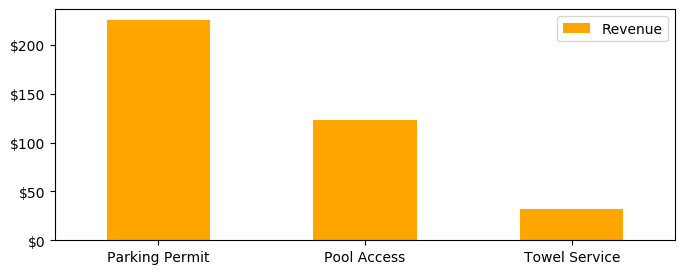
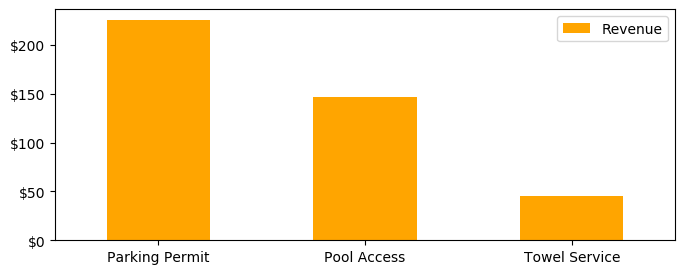
fix charts in analytics tab

Changed region(s): [[0.7358, 0.7007, 0.9197, 0.7883], [0.4599, 0.3504, 0.6131, 0.438]]

diff --git a/templates/analytics.html b/templates/analytics.html
@@ -8,6 +8,8 @@
       refresh data to update graphs.
     </p>
 
+    <script src="https://cdn.anychart.com/releases/8.0.0/js/anychart-base.min.js"></script>
+
 
     <!-- TAB MANAGEMENT -->
     <br>
@@ -34,9 +36,28 @@
       <br>
 
       <h4>Bookings By Month:</h4>
-      <img src="{{ url_for('static', filename='bookings_by_month.png') }}"
-           class="w3-image" alt="[number of bookings by month]">
-      <br>
+      <div id="container1" style="width: 100%; height: 400px"></div>
+      <script>
+        anychart.onDocumentReady(function() {
+
+          // set the data
+          var data = {
+              header: ["Month", "Bookings"],
+              rows:
+              {{ book_by_mo|safe }}
+          };
+
+          // create the chart
+          var chart = anychart.column();
+
+          // add the data
+          chart.data(data);
+
+          // draw
+          chart.container("container1");
+          chart.draw();
+        });
+      </script>
 
       <br>
     </div>
@@ -56,15 +77,53 @@
       <br>
 
       <h4>Revenue By Month:</h4>
-      <img src="{{ url_for('static', filename='revenue_by_month.png') }}"
-           class="w3-image" alt="[number of bookings by month]">
-      <br>
+      <div id="container2" style="width: 100%; height: 400px"></div>
+      <script>
+        anychart.onDocumentReady(function() {
+
+          // set the data
+          var data = {
+              header: ["Month", "Revenue"],
+              rows:
+              {{ rev_by_mo|safe }}
+          };
+
+          // create the chart
+          var chart = anychart.column();
+
+          // add the data
+          chart.data(data);
+
+          // draw
+          chart.container("container2");
+          chart.draw();
+        });
+      </script>
 
       <br>
       <h4>Revenue From Fees:</h4>
-      <img src="{{ url_for('static', filename='revenue_by_fee.png') }}"
-           class="w3-image" alt="[number of bookings by month]">
-      <br>
+      <div id="container3" style="width: 100%; height: 400px"></div>
+      <script>
+        anychart.onDocumentReady(function() {
+
+          // set the data
+          var data = {
+              header: ["Fee", "Revenue"],
+              rows:
+              {{ rev_by_fee|safe }}
+          };
+
+          // create the chart
+          var chart = anychart.column();
+
+          // add the data
+          chart.data(data);
+
+          // draw
+          chart.container("container3");
+          chart.draw();
+        });
+      </script>
 
 
       <br>

diff --git a/database.py b/database.py
@@ -157,6 +157,7 @@ def rollback_transaction():
 # =====================
 
 def get_customers_table():
+    connect_sqlalchemy()
     return Customer.query.all()
 
 
@@ -515,7 +516,7 @@ def update_invoice_amount(cnx, booking_id):
 def mark_as_paid(booking_id):
     invoice = Invoice.query.filter_by(booking_id=booking_id).first()
     invoice.paid = 1
-    invoice.paid_date = date=datetime.today().strftime('%Y-%m-%d')
+    invoice.paid_date = date.datetime.today().strftime('%Y-%m-%d')
     session.commit()
 
 
@@ -646,10 +647,7 @@ def update_bookings_by_month():
     cnx.close()
 
     df = pd.DataFrame(table, columns=["M", "Month", "Bookings"])
-    p = df.plot.bar(x="Month", y="Bookings", rot=0,
-                    figsize=(8,3), xlabel="")
-    plt.savefig('static/bookings_by_month.png', bbox_inches='tight')
-    plt.close('all')
+    return str(df[['Month', 'Bookings']].values.tolist())
 
 
 
@@ -668,16 +666,10 @@ def update_revenue_by_month():
     cursor.close()
     cnx.close()
 
-    fig, ax = plt.subplots(1, 1, figsize=(8, 3))
     df = pd.DataFrame(table, columns=["M", "Month", "Revenue"])
     df["Revenue"] = pd.to_numeric(df["Revenue"])
-    p = df.plot.bar(x="Month", y="Revenue", rot=0,
-                    xlabel="", ax=ax, color="green")
-    fmt = '${x:,.0f}'
-    tick = mtick.StrMethodFormatter(fmt)
-    ax.yaxis.set_major_formatter(tick)
-    plt.savefig('static/revenue_by_month.png', bbox_inches='tight')
-    plt.close('all')
+    return str(df[['Month', 'Revenue']].values.tolist())
+
 
 
 def update_revenue_by_fee():
@@ -694,16 +686,9 @@ def update_revenue_by_fee():
     cursor.close()
     cnx.close()
 
-    fig, ax = plt.subplots(1, 1, figsize=(8, 3))
     df = pd.DataFrame(table, columns=["Fee", "Revenue"])
     df["Revenue"] = pd.to_numeric(df["Revenue"])
-    p = df.plot.bar(x="Fee", y="Revenue", rot=0,
-                    xlabel="", ax=ax, color="orange")
-    fmt = '${x:,.0f}'
-    tick = mtick.StrMethodFormatter(fmt)
-    ax.yaxis.set_major_formatter(tick)
-    plt.savefig('static/revenue_by_fee.png', bbox_inches='tight')
-    plt.close('all')
+    return str(df[['Fee', 'Revenue']].values.tolist())
 
 
 

diff --git a/app.py b/app.py
@@ -264,14 +264,15 @@ def invoice_unpay():
 
 @app.route("/analytics")
 def analytics(tab="bookings"):
-    db.update_bookings_by_month()
-    db.update_revenue_by_month()
-    db.update_revenue_by_fee()
+    s1 = db.update_bookings_by_month()
+    s2 = db.update_revenue_by_month()
+    s3 = db.update_revenue_by_fee()
     bookings_tot = db.get_total_bookings()
     revenue_tot = db.get_total_revenue()
     unpaid_tot = db.get_total_revenue(unpaid=True)
     return render_template("analytics.html", tab=tab, bookings_tot=bookings_tot,
-                           revenue_tot=revenue_tot, unpaid_tot=unpaid_tot)
+                           revenue_tot=revenue_tot, unpaid_tot=unpaid_tot,
+                           book_by_mo=s1, rev_by_mo=s2, rev_by_fee=s3)
 
 
 @app.route("/analytics/refresh")

diff --git a/README.md b/README.md
@@ -19,8 +19,6 @@ and managers.
 3. run `python app.py`
 4. open a web browser and go to `http://127.0.0.1:5000/`
 
-### Connect to database:
+### Database:
 
-The app uses a MySQL database hosted on Google Cloud Platform. To connect, the appropriate connection
-info must be provided in the file `db_connect_info.json`. Additonally, the path variable 
-`connect_file_path` must be set accordingly in `database.py`.
+The app uses a MySQL database hosted on Google Cloud Platform.
